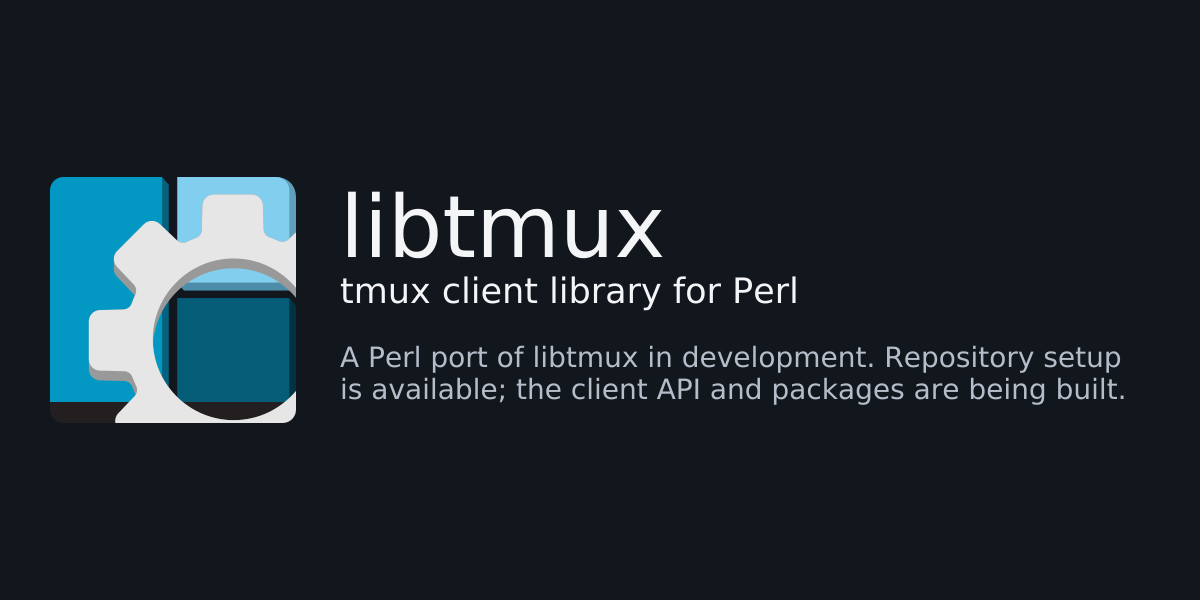
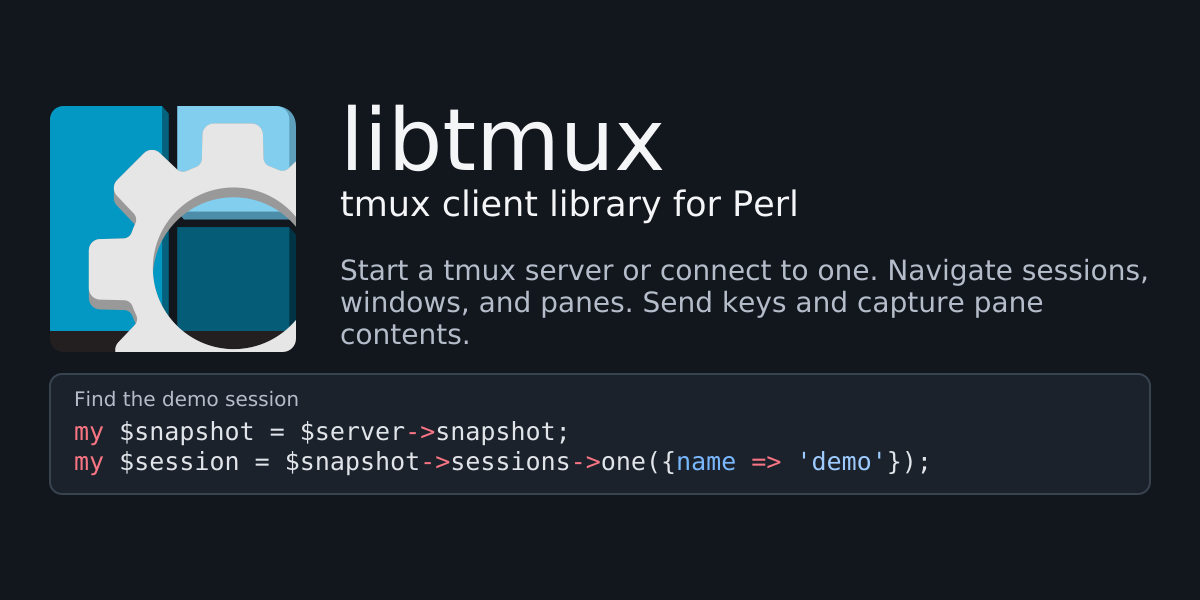
docs(fix[branding]) Show a native session query
why: Sharing previews should demonstrate the implemented library API.
what:
- Refresh sharing cards and their per-file source revisions
- Use ordinary tmux names in the displayed example

Changed region(s): [[0.0308, 0.15, 0.9558, 0.84], [0.6783, 0.75, 0.7708, 0.78]]

diff --git a/docs/branding.md b/docs/branding.md
@@ -22,3 +22,7 @@ The generic manifests start at `/`; a documentation publisher must adjust
 `id`, `start_url`, and `scope` to its deployment path before linking them.
 The Safari pinned-tab exports retain the shared kit's current geometry;
 the dedicated silhouette redesign is a separate follow-up.
+
+The library sharing cards show a native query verified against a private tmux
+server. File entries with a `revision` in `assets/source.json` override the
+default source revision for those exports.
